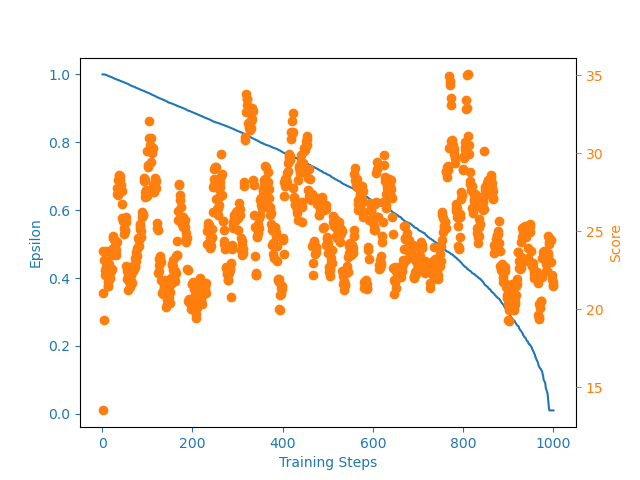
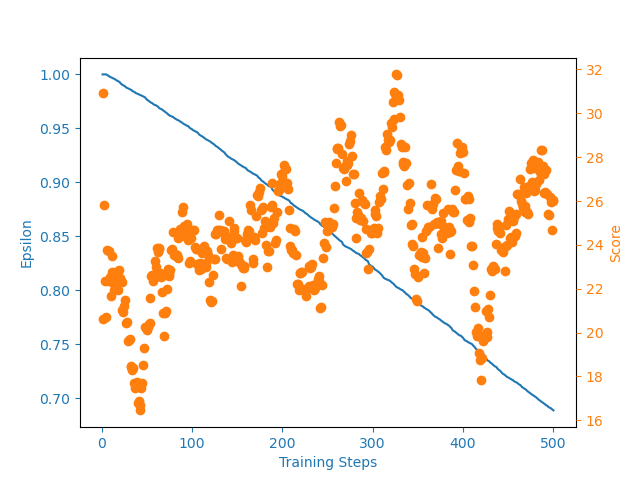
Update environment

diff --git a/env/envs/mtsp.py b/env/envs/mtsp.py
@@ -7,7 +7,7 @@ import pygame
 from stable_baselines3.common.env_checker import check_env
 
 class MTSPEnv(gym.Env):
-    metadata = {"render_modes": ["human"], "render_fps": 4}
+    metadata = {"render_modes": ["human", "rgb_array"], "render_fps": 4}
 
     def __init__(self, num_agents=2, num_tasks=5, boundary=50, render_mode=None):
         self.num_agents = num_agents
@@ -30,6 +30,21 @@ class MTSPEnv(gym.Env):
         # Action is a tupe [agent_index, next_task]
         # Flatten action space: single integer to represent [agent, task_idx] pair
         self.action_space = spaces.Discrete(self.num_agents * self.num_tasks)
+
+        # Rendering
+        assert render_mode is None or render_mode in self.metadata["render_modes"]
+        self.render_mode = render_mode
+
+        """
+        If human-rendering is used, `self.window` will be a reference
+        to the window that we draw to. `self.clock` will be a clock that is used
+        to ensure that the environment is rendered at the correct framerate in
+        human-mode. They will remain `None` until human-mode is used for the
+        first time.
+        """
+        self.window = None
+        self.clock = None
+
 
     def reset(self, seed=None, options=None):
         super().reset(seed=seed)

diff --git a/model.py b/model.py
@@ -114,7 +114,8 @@ class Agent():
         q_pred = self.policy_net.forward(state_batch)[batch_index, action_batch]    # only need the value of actions we actually took
         
         # calculate target Q value
-        q_next = self.target_net.forward(new_state_batch)
+        # q_next = self.target_net.forward(new_state_batch)
+        q_next = self.policy_net.forward(new_state_batch)
         q_next[terminal_batch] = 0.0                                            # the value of terminal states are 0
         q_target = reward_batch + self.gamma * T.max(q_next, dim=1)[0]          # the max function return (value, index)
 

diff --git a/main.py b/main.py
@@ -12,12 +12,13 @@ if __name__ == '__main__':
                   epsilon=1.0, batch_size=64, n_actions=env.action_space.n,
                   eps_end=0.01, lr=0.003, T=1000)
     scores, eps_history = [], []
-    n_games = 1000
+    n_games = 500
+    random_seed = 8
 
     for i in range(n_games):
         score = 0
         done = False
-        observation, info = env.reset()
+        observation, info = env.reset(seed=random_seed)
 
         while not done:
             action = agent.choose_action(observation)

diff --git a/env/envs/grid_world.py b/env/envs/grid_world.py
@@ -29,7 +29,7 @@ class GridWorldEnv(gym.Env):
             }
         )
 
-        # We have 4 actions, corresponding to "right", "up", "left", "down", "right"
+        # We have 4 actions, corresponding to "right", "up", "left", "down"
         self.action_space = spaces.Discrete(4)
 
         """
